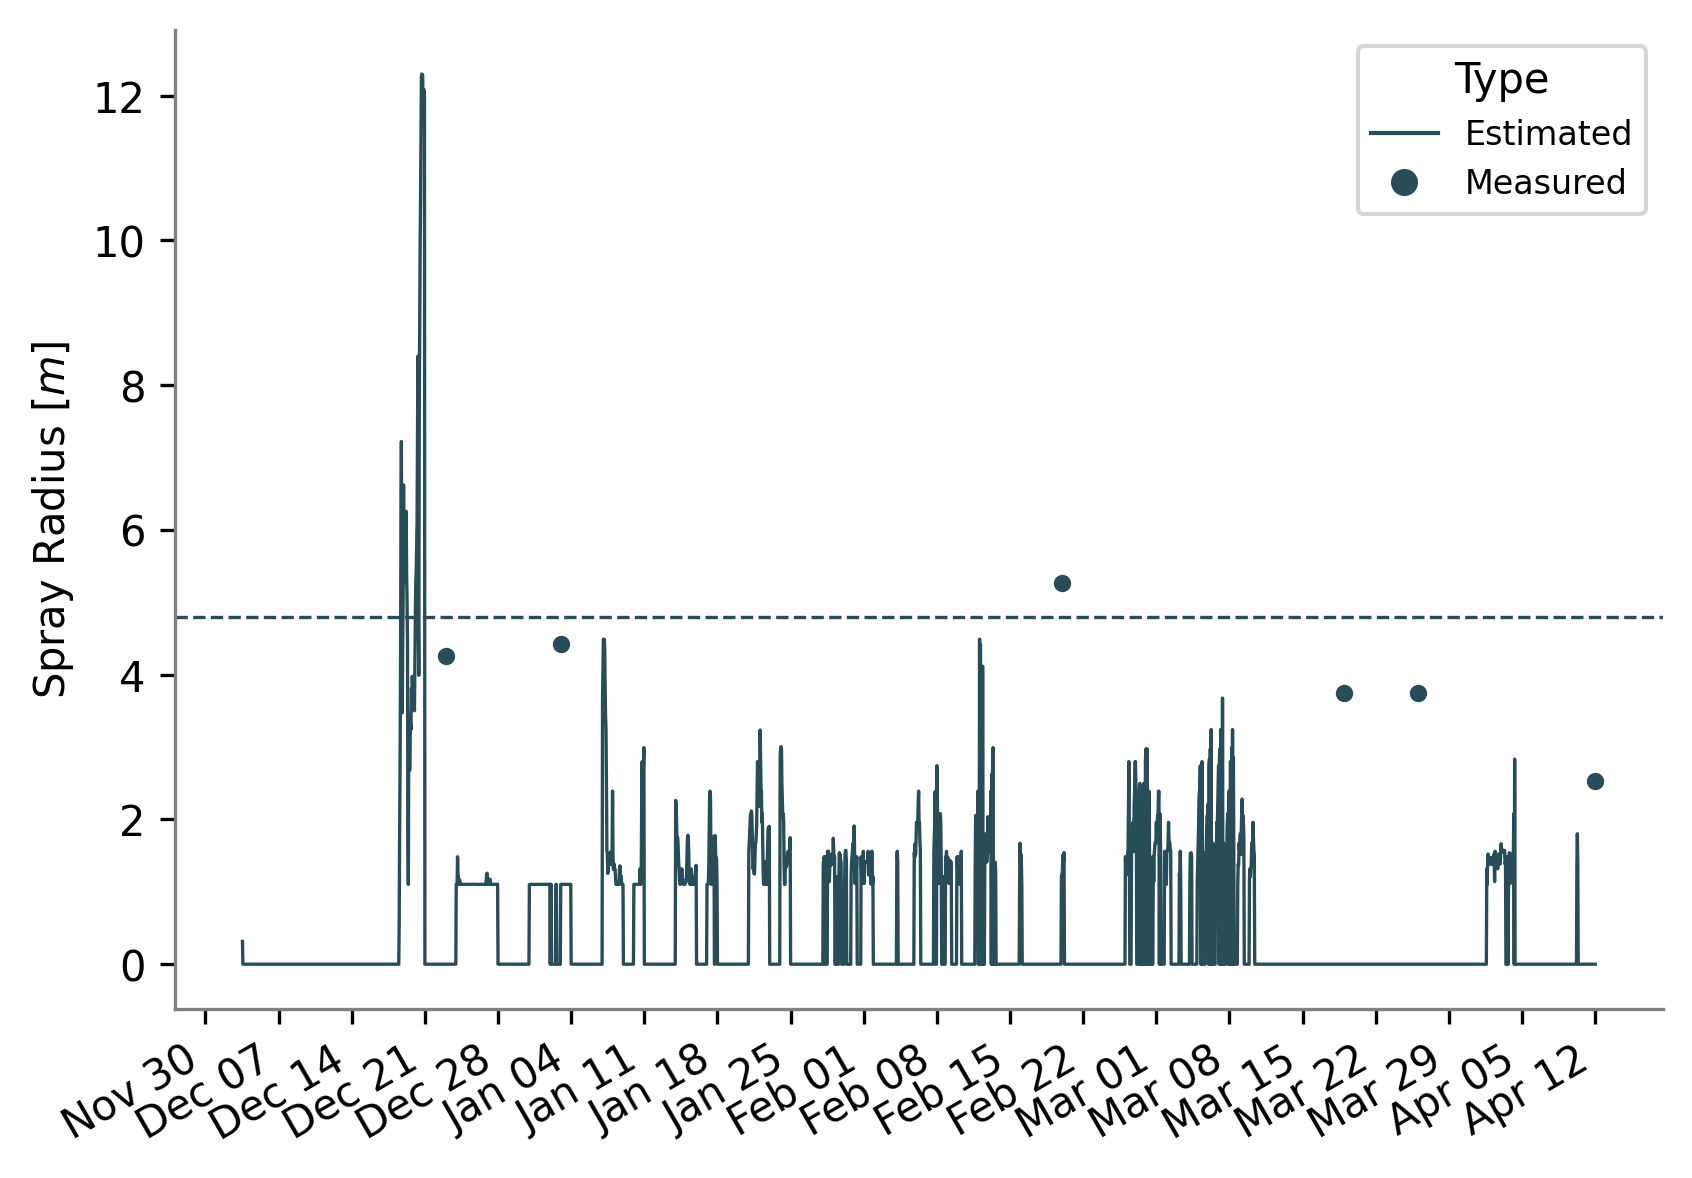
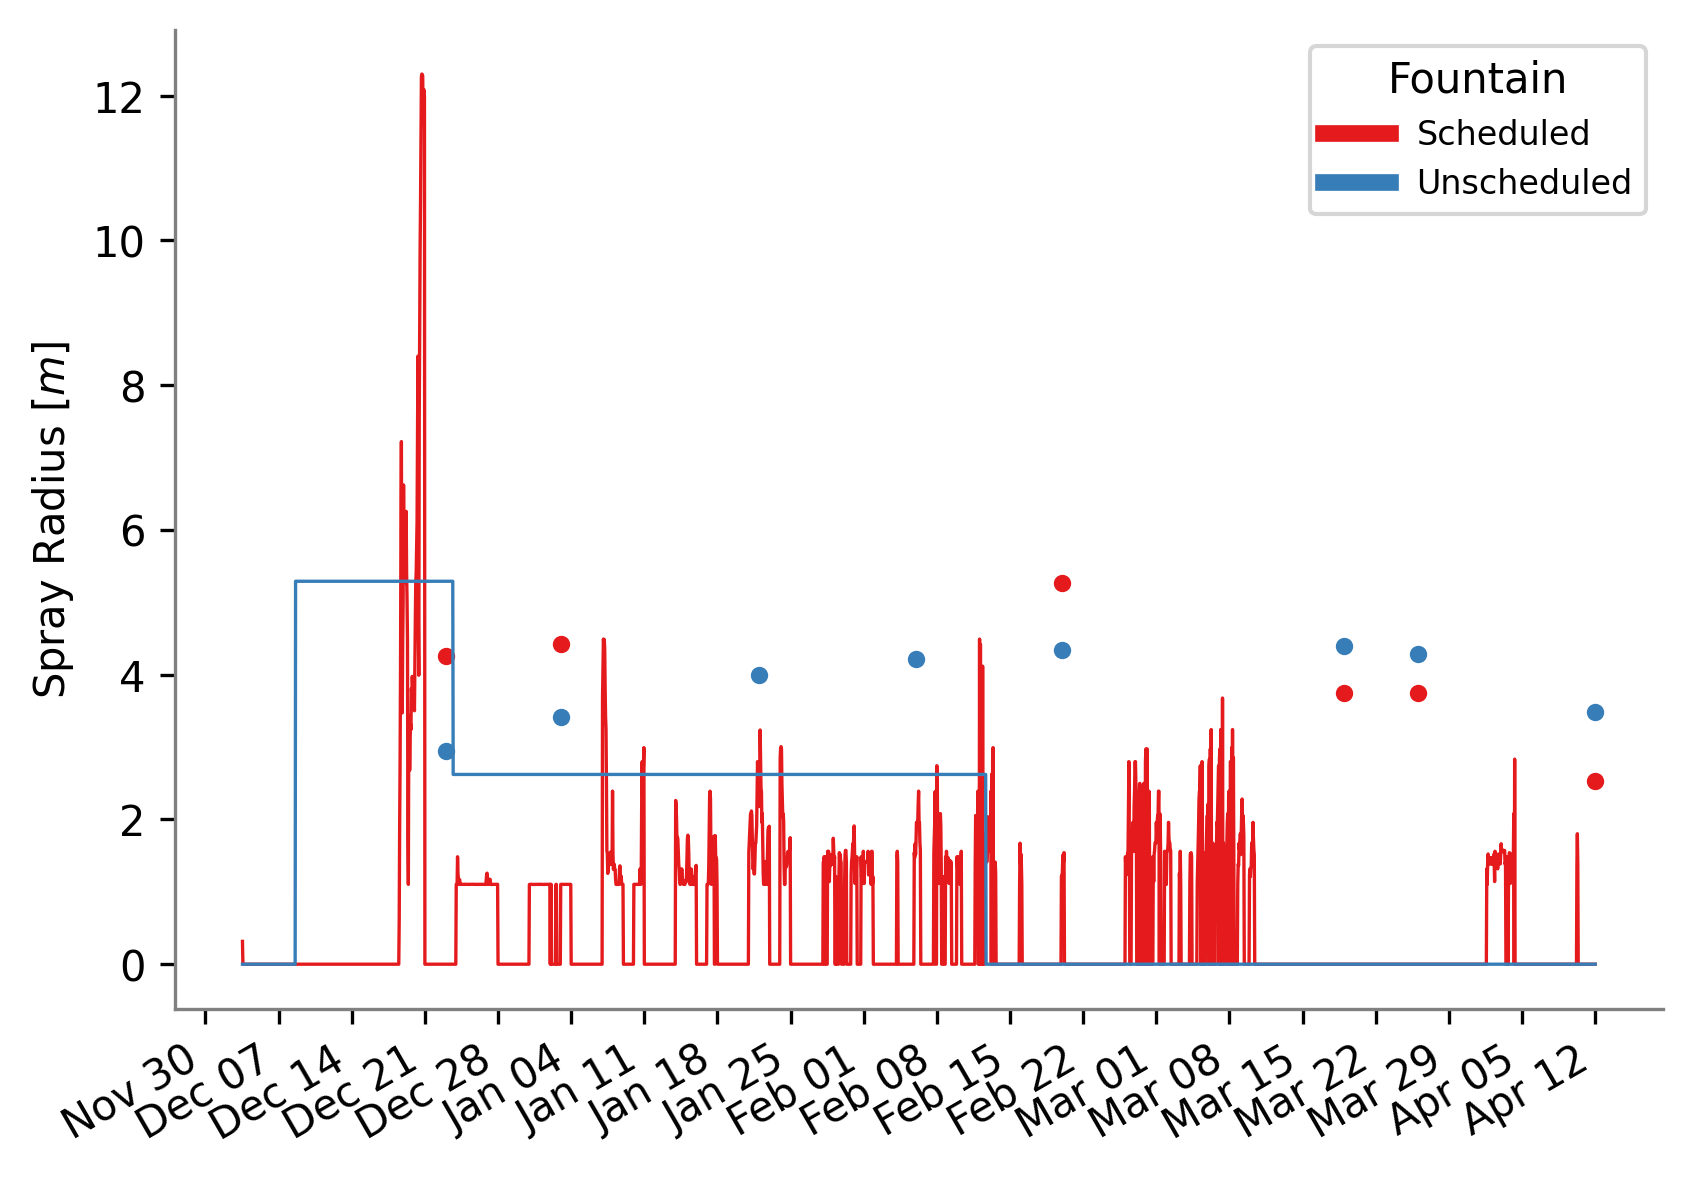
Reviewed

diff --git a/tech.tex b/tech.tex
@@ -80,15 +80,13 @@ Previous studies \citep{balasubramanianInfluenceMeteorologicalConditions2022,
 oerlemansBriefCommunicationGrowth2021} have already quantified the meteorological influences on AIR volume
 evolution by comparing several AIRs built in India and Switzerland. The results revealed a high sensitivity of
 AIR volume evolution to fountain characteristics. Moreover, it was found that all the AIRs constructed
-suffered from high water losses due to excessive fountain discharge input. 
+suffered from high water losses due to excessive fountain discharge. 
 
 A straightforward solution to this issue is to reduce the fountain discharge input but it is challenging to
 implement it in practice. For example, in the case of the Indian AIR, the model estimates that water use
 efficiency can be increased by just reducing the fountain discharge rate by half. However, in practice, this
 strategy would have further increased the number of fountain freezing events due to much lower water velocities
-in the pipeline. Moreover, the Indian AIR discharge rate was lowered temporally due to increase in fountain
-height from 5 to 9 m. Therefore, any reduction in initial discharge rate would have triggered a fountain
-freezing event before the fountain height could be increased to 9 m.
+in the pipeline. 
 
 An optimum construction strategy, therefore, should prevent fountain freezing events while maintaining high
 water use efficiency. Fountain freezing events can be prevented if the pipeline water temperature is maintained
@@ -512,7 +510,11 @@ February that increased the height from 3.7 to 5.7 m respectively.
 \begin{figure*}[t]
 \includegraphics[width=12cm]{Figures/fountains.png}
 
-\caption{  }
+\caption{ (a) Pressure loss as a linear function of aperture diameter for a constant fountain height of 4 $m$.
+The corresponding values for the scheduled and unscheduled fountains are highlighted as red and blue dots
+respectively. (b) Discharge as a function of height for the scheduled (red curve) and the unscheduled (blue
+curve) fountain. (c) Discharge measured for the scheduled fountain (red curve) and estimated for the unscheduled
+fountain (blue curve) during the study period.}
 
 \label{fig:fountains}
 \end{figure*}
